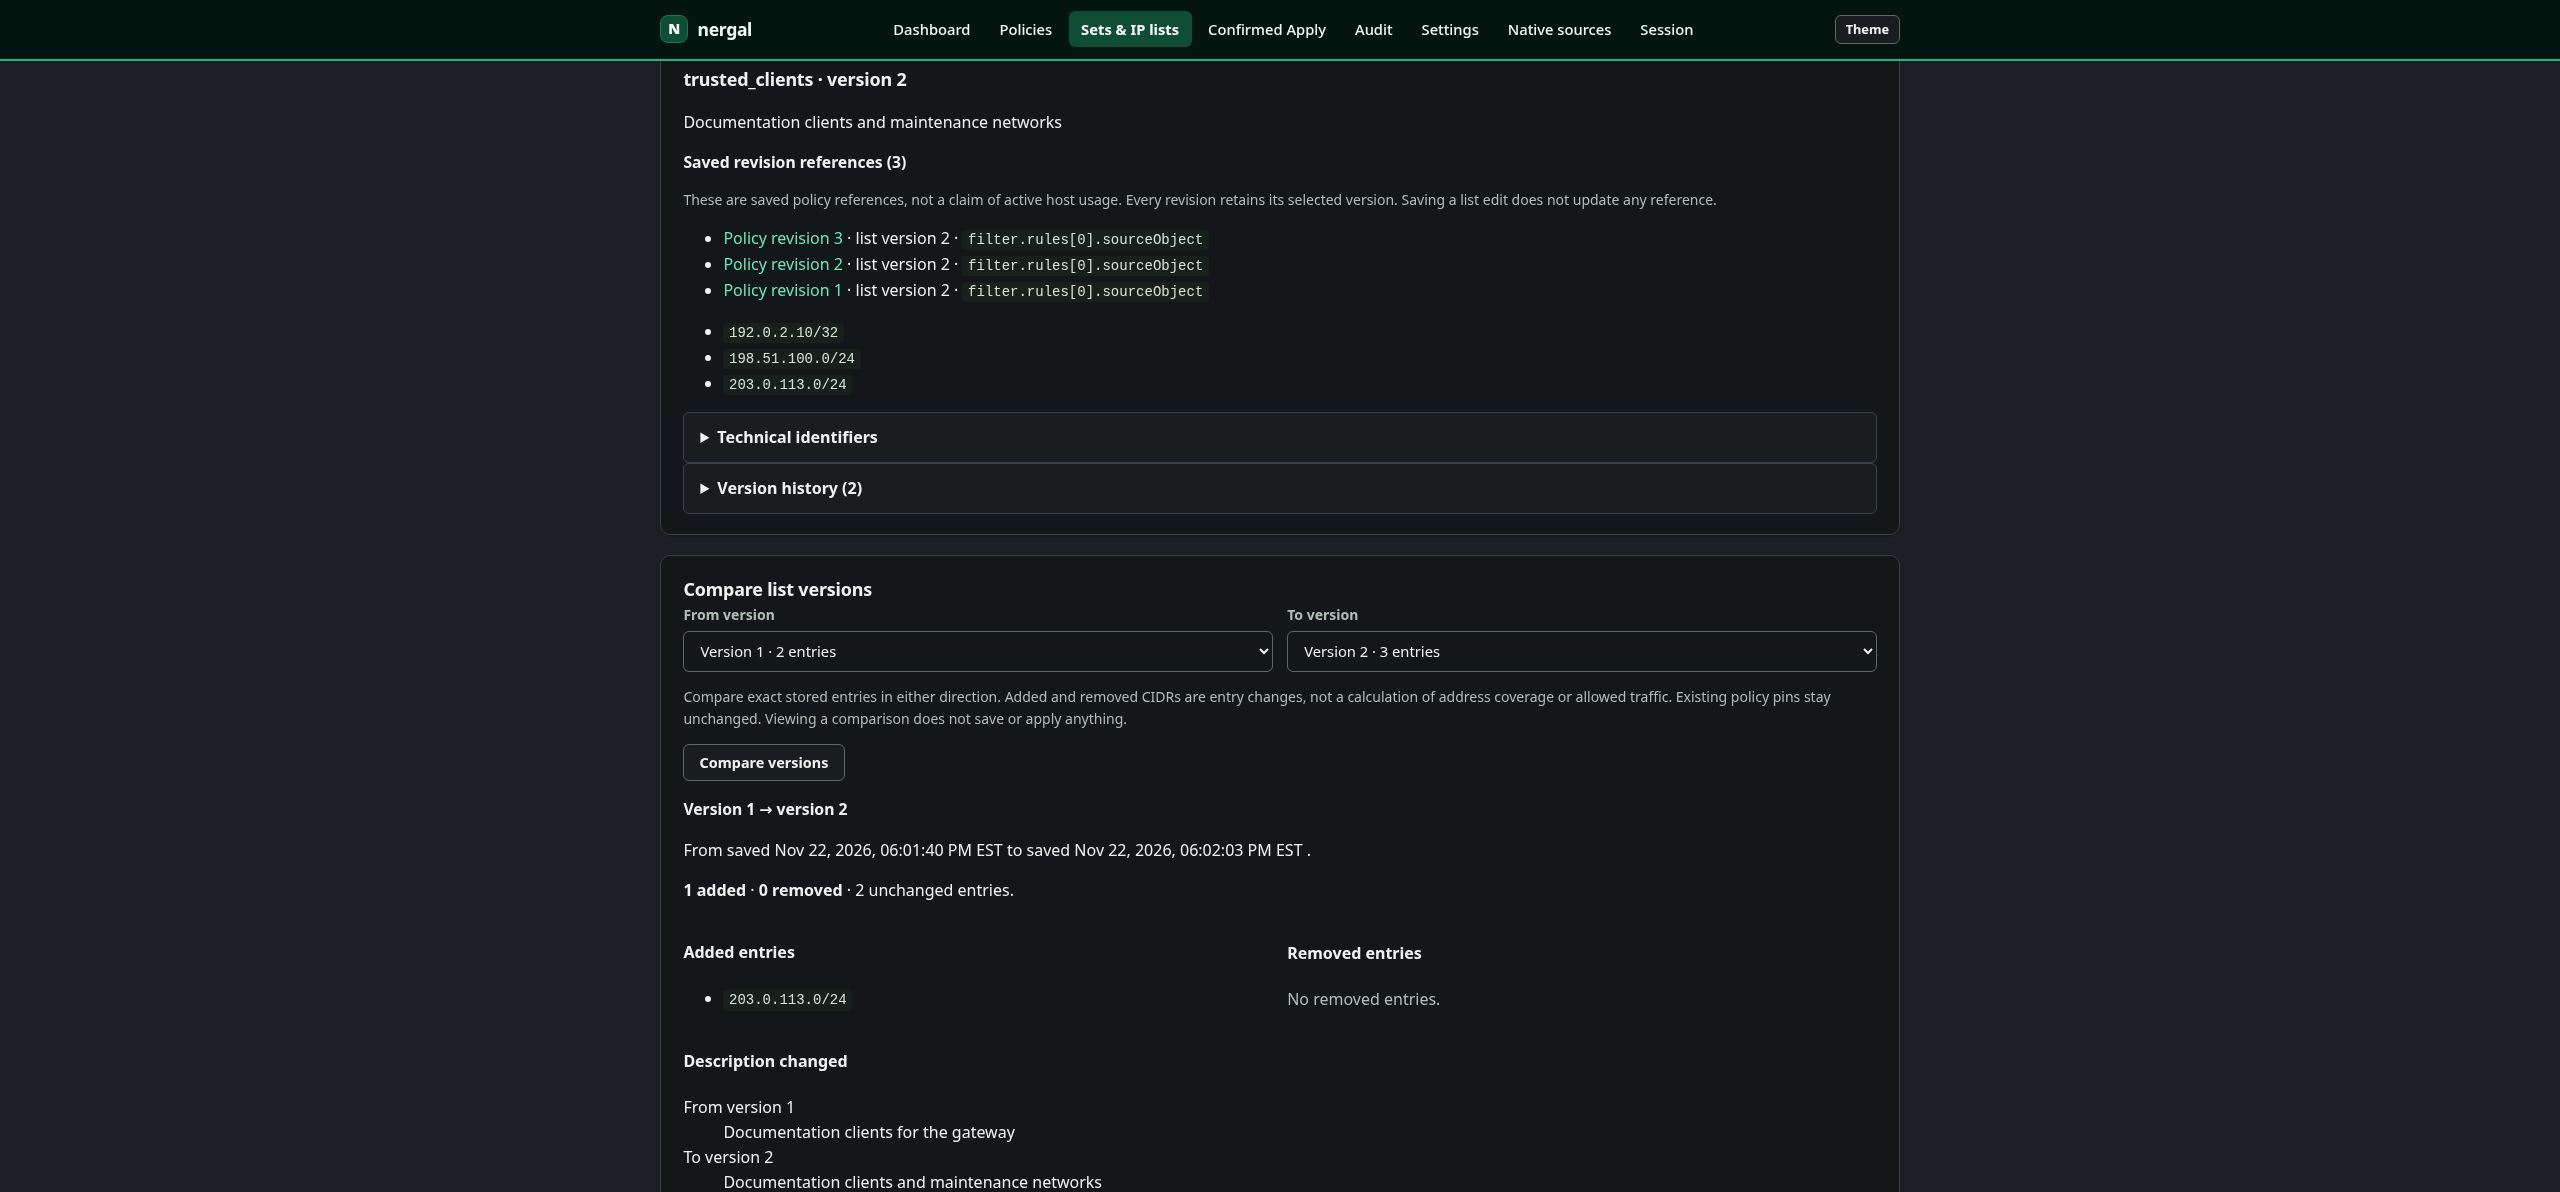
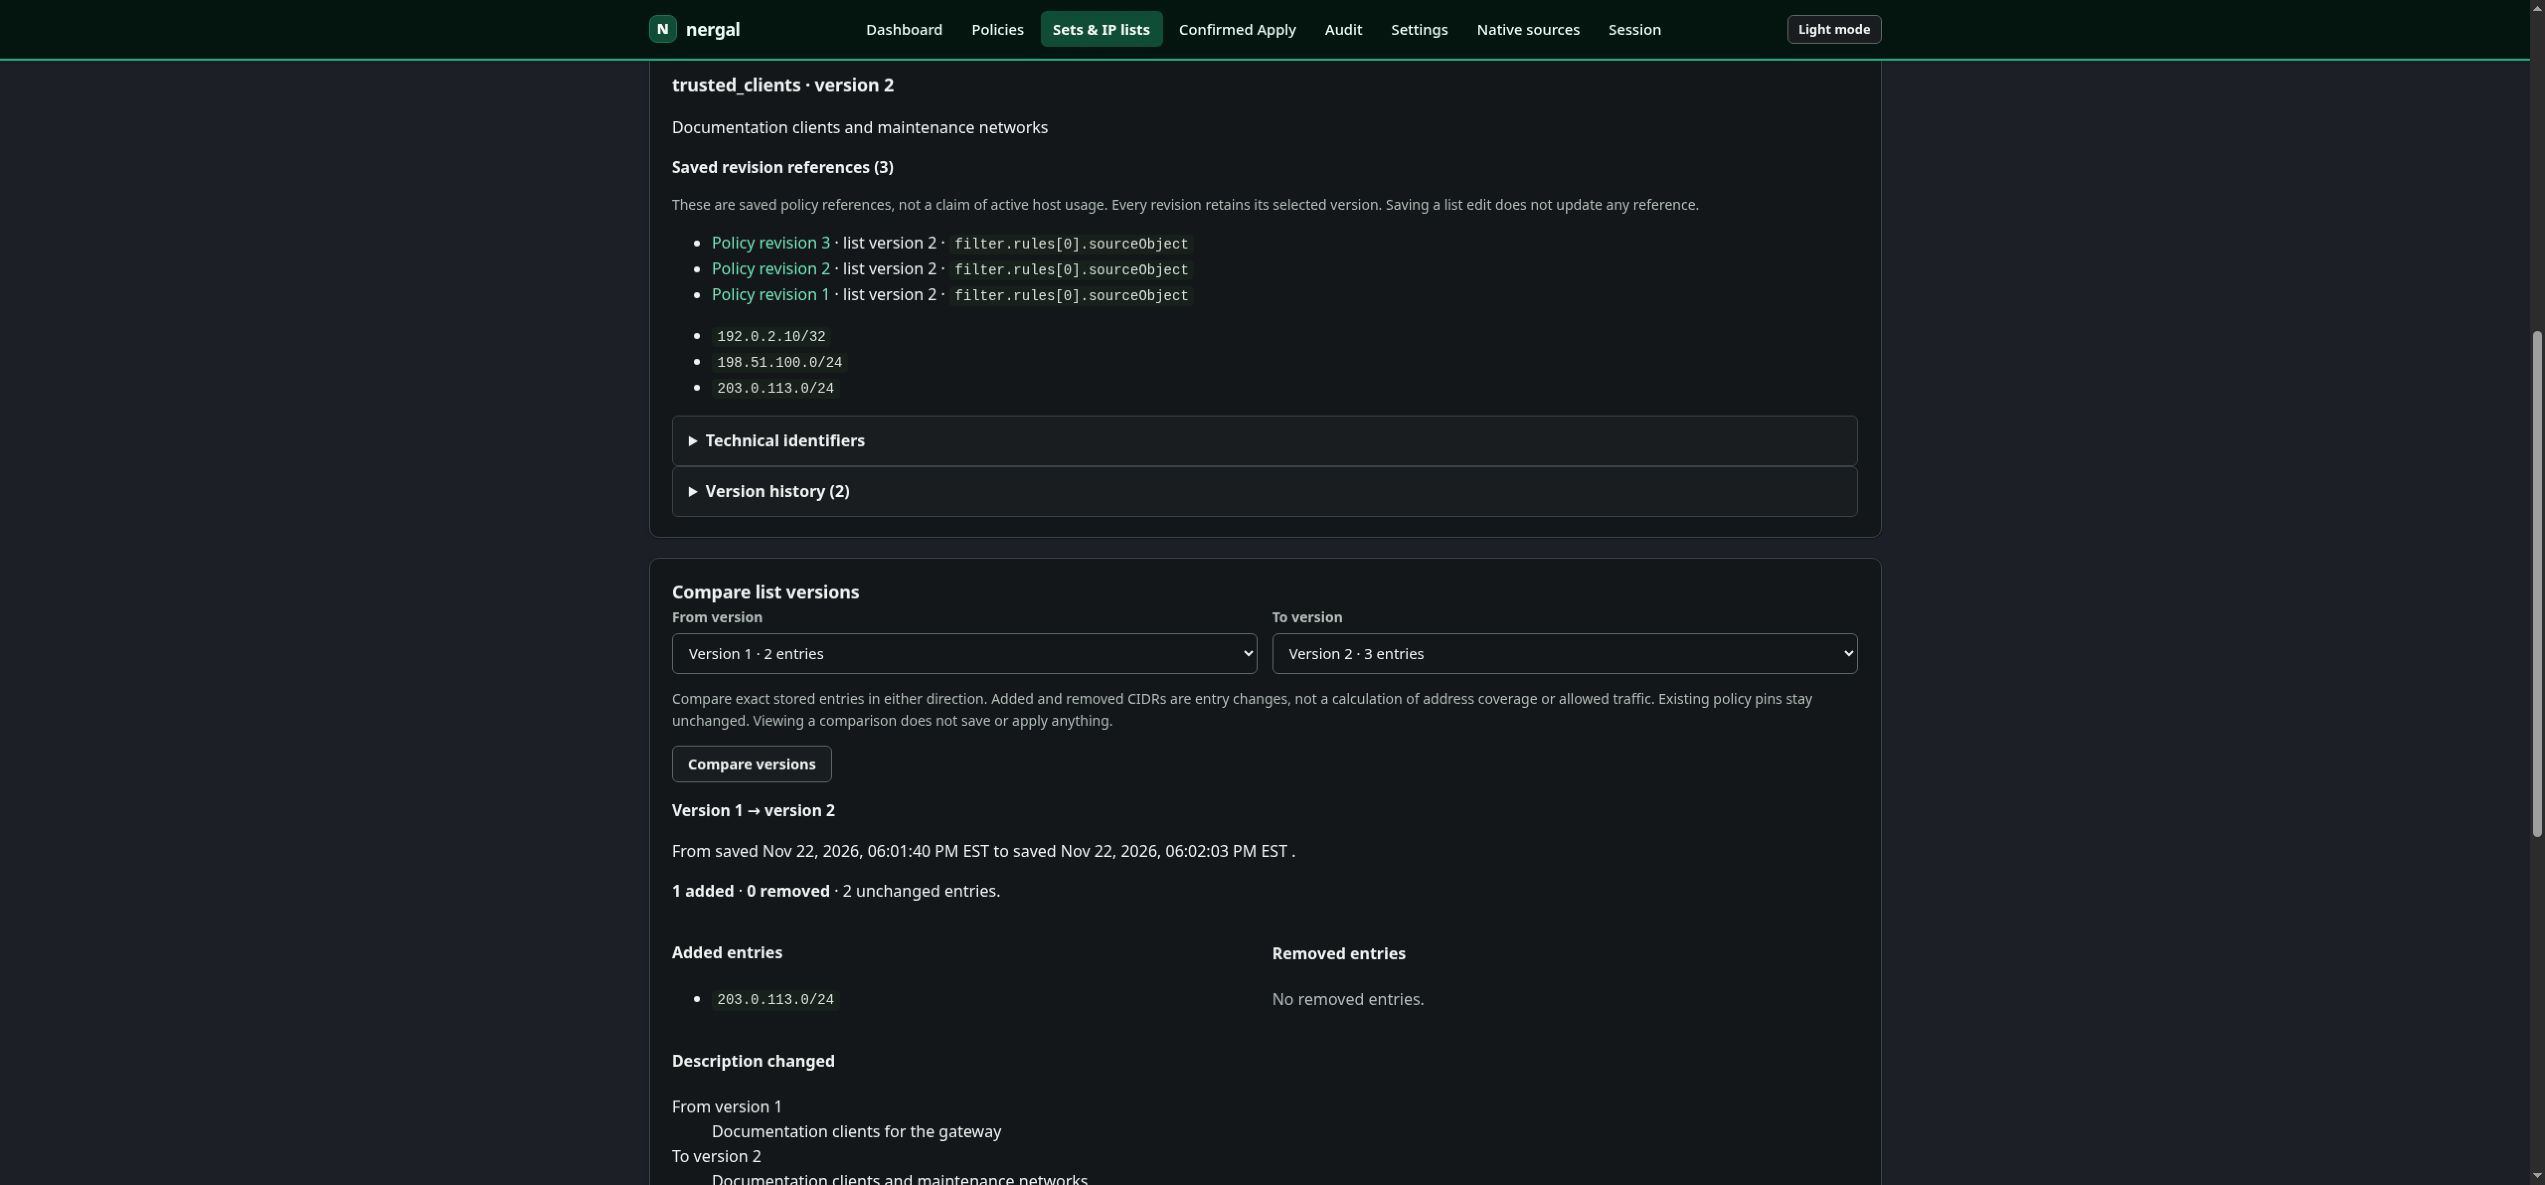
Keep theme action labels and cached UI assets current

diff --git a/src/Nergal.Web/wwwroot/js/nergal.js b/src/Nergal.Web/wwwroot/js/nergal.js
@@ -2,19 +2,26 @@
 (function () {
   "use strict";
 
-  // 1. Theme toggle persisted in localStorage, falling back to admin-configured default theme.
+  // 1. Describe the action in both themes, including initial/system changes, as Pages does.
   const root = document.documentElement;
+  const systemTheme = window.matchMedia("(prefers-color-scheme: dark)");
+  const isDark = () => root.getAttribute("data-theme") === "dark" ||
+    (!root.getAttribute("data-theme") && systemTheme.matches);
+  const updateThemeButtons = () => {
+    document.querySelectorAll("[data-theme-toggle]").forEach(toggle => {
+      toggle.textContent = isDark() ? "Light mode" : "Dark mode";
+      toggle.setAttribute("aria-label", "Switch to " + (isDark() ? "light" : "dark") + " theme");
+    });
+  };
   document.addEventListener("click", function (e) {
-    const toggle = e.target.closest("[data-theme-toggle]");
-    if (!toggle) return;
-    const isDark =
-      root.getAttribute("data-theme") === "dark" ||
-      (!root.getAttribute("data-theme") && window.matchMedia("(prefers-color-scheme: dark)").matches);
-    const next = isDark ? "light" : "dark";
+    if (!e.target.closest("[data-theme-toggle]")) return;
+    const next = isDark() ? "light" : "dark";
     root.setAttribute("data-theme", next);
     try { localStorage.setItem("nergal-theme", next); } catch { /* Storage can be disabled. */ }
-    toggle.textContent = next === "dark" ? "Light mode" : "Dark mode";
+    updateThemeButtons();
   });
+  systemTheme.addEventListener("change", updateThemeButtons);
+  updateThemeButtons();
 
   // 2. Register Host form: toggle Unix vs TLS fields based on transportKind.
   const transportSelect = document.querySelector("[data-transport-select]");

diff --git a/tests/integration/local-sessions/objects.py b/tests/integration/local-sessions/objects.py
@@ -1,8 +1,38 @@
 """Synthetic HTTPS object-library conformance, without kernel or agent access."""
+import base64
+import hashlib
 import sqlite3
+from html.parser import HTMLParser
+from urllib.parse import parse_qs, urlsplit
+
+
+class VersionedAssets(HTMLParser):
+    def __init__(self):
+        super().__init__()
+        self.urls = []
+
+    def handle_starttag(self, tag, attrs):
+        attributes = dict(attrs)
+        url = attributes.get("src") if tag == "script" else attributes.get("href") if tag == "link" else None
+        if url and url.startswith(("/js/", "/css/")):
+            assert "asp-append-version" not in attributes
+            self.urls.append(url)
+
+
+def check_versioned_assets(browser):
+    assets = VersionedAssets()
+    assets.feed(browser.request("/manage/policies", 200))
+    assert {urlsplit(url).path for url in assets.urls} >= {"/js/theme.js", "/js/nergal.js", "/js/local-time.js", "/js/code-editor.bundle.js", "/css/nergal.css"}
+    for url in assets.urls:
+        version = parse_qs(urlsplit(url).query).get("v", [])
+        assert len(version) == 1 and len(version[0]) == 43, f"asset URL is not content-versioned: {url}"
+        content = browser.request(url, 200)
+        digest = base64.urlsafe_b64encode(hashlib.sha256(content.encode("utf-8")).digest()).decode().rstrip("=")
+        assert version[0] == digest, "asset URL must bind exactly the served bytes"
 
 
 def check_objects(browser, controller_directory):
+    check_versioned_assets(browser)
     fields = {"expectedVersion": "0", "name": "trusted_clients", "kind": "ipv4",
               "description": "Synthetic <script>alert(1)</script>", "entries": "192.0.2.10\r\n198.51.100.0/24"}
     assert "Policies can pin a list version" in browser.request("/manage/objects", 200)

diff --git a/tests/integration/local-sessions/check.py b/tests/integration/local-sessions/check.py
@@ -92,6 +92,8 @@ def host(temp, tls, settings=None, *, executable="dotnet", dll=DLL, drop=None):
         "HOME": str(temp / "profile"),
         "XDG_DATA_HOME": str(temp / "profile"),
         "ASPNETCORE_URLS": "http://127.0.0.1:0;https://127.0.0.1:0",
+        # This fixture runs build output, not a publish directory: expose its actual source assets to MVC's file version provider.
+        "ASPNETCORE_WEBROOT": str(ROOT / "src/Nergal.Web/wwwroot"),
         "Kestrel__Certificates__Default__Path": str(temp / "tls.crt"),
         "Kestrel__Certificates__Default__KeyPath": str(temp / "tls.key"),
         "LocalSessions__Enabled": "true", "LocalSessions__AccountDirectory": str(temp / "accounts"),

diff --git a/docs/testing.md b/docs/testing.md
@@ -538,3 +538,16 @@ The object-library HTTPS fixture verifies forward/reverse/same-version pages,
 escaped descriptions, local time markup, missing/out-of-range/duplicate version
 inputs, read-only historical/Auditor access and unchanged database/audit counts.
 No compiler, agent or native enforcement semantics change in this view.
+
+Application theme action labels are verified by `scripts/app-theme.test.mjs`:
+saved/configured/system preferences, first-render accessible labels, unrelated
+clicks, system theme changes and switching with storage denied. The application
+and Pages both label the destination theme explicitly. These are browser
+presentation preferences; configured defaults and saved policies are unaffected.
+
+The HTTPS object-library fixture also verifies content-versioned URLs for the
+shared theme/time/application scripts, stylesheet and bundled policy editor.
+It fetches each asset and checks the URL's version against the SHA-256 of the
+served bytes. Script/link MVC tag helpers are enabled explicitly without
+changing form tag-helper or CSRF behavior. Changed assets receive new URLs on
+upgrade so browser caches cannot keep the preceding editor/theme code by URL.

diff --git a/pages/testing-and-conformance.md b/pages/testing-and-conformance.md
@@ -47,3 +47,16 @@ metadata changes, exact CIDR handling, unrelated-identity rejection, escaped tex
 bad/duplicate/missing version requests, Auditor access and unchanged database/audit
 counts. Browser checks cover light/dark and mobile layouts. This read-only view
 adds no native enforcement semantics or traffic measurement.
+
+Application theme action labels are verified by `scripts/app-theme.test.mjs`:
+saved/configured/system preferences, first-render accessible labels, unrelated
+clicks, system theme changes and switching with storage denied. The application
+and Pages both label the destination theme explicitly. These are browser
+presentation preferences; configured defaults and saved policies are unaffected.
+
+The HTTPS object-library fixture also verifies content-versioned URLs for the
+shared theme/time/application scripts, stylesheet and bundled policy editor.
+It fetches each asset and checks the URL's version against the SHA-256 of the
+served bytes. Script/link MVC tag helpers are enabled explicitly without
+changing form tag-helper or CSRF behavior. Changed assets receive new URLs on
+upgrade so browser caches cannot keep the preceding editor/theme code by URL.

diff --git a/pages/release-notes.md b/pages/release-notes.md
@@ -14,6 +14,15 @@ nergal uses Calendar Versioning (`YYYY.MM.DD` and `YYYY.MM.DD.N` for same-day re
 
 - Completed Milestones A–D (Phases 1–14): native `nftables` dual-stack filter/NAT/bridge compilers, exclusive ownership & boot/namespace receipts, autonomous timed watchdog rollback, `SO_PEERCRED` Unix and pinned TLS 1.3 mTLS control protocols, local sessions + optional OIDC + RBAC, MVC/Blazor management UI, and end-to-end confirmed apply over HTTPS.
 
+## Unreleased theme accessibility
+
+The application now initializes the theme button to **Light mode** or **Dark mode**
+with an explicit accessible action name, including after navigation. System-theme
+changes update the label while following the system preference. This matches the
+Pages control behavior and still works with browser storage disabled. Local
+application script/style URLs now include content versions, including the policy
+editor bundle, so updated assets receive new cache keys after an upgrade.
+
 ## Unreleased list comparison
 
 The list library now compares any two stored versions, with added/removed entries,
